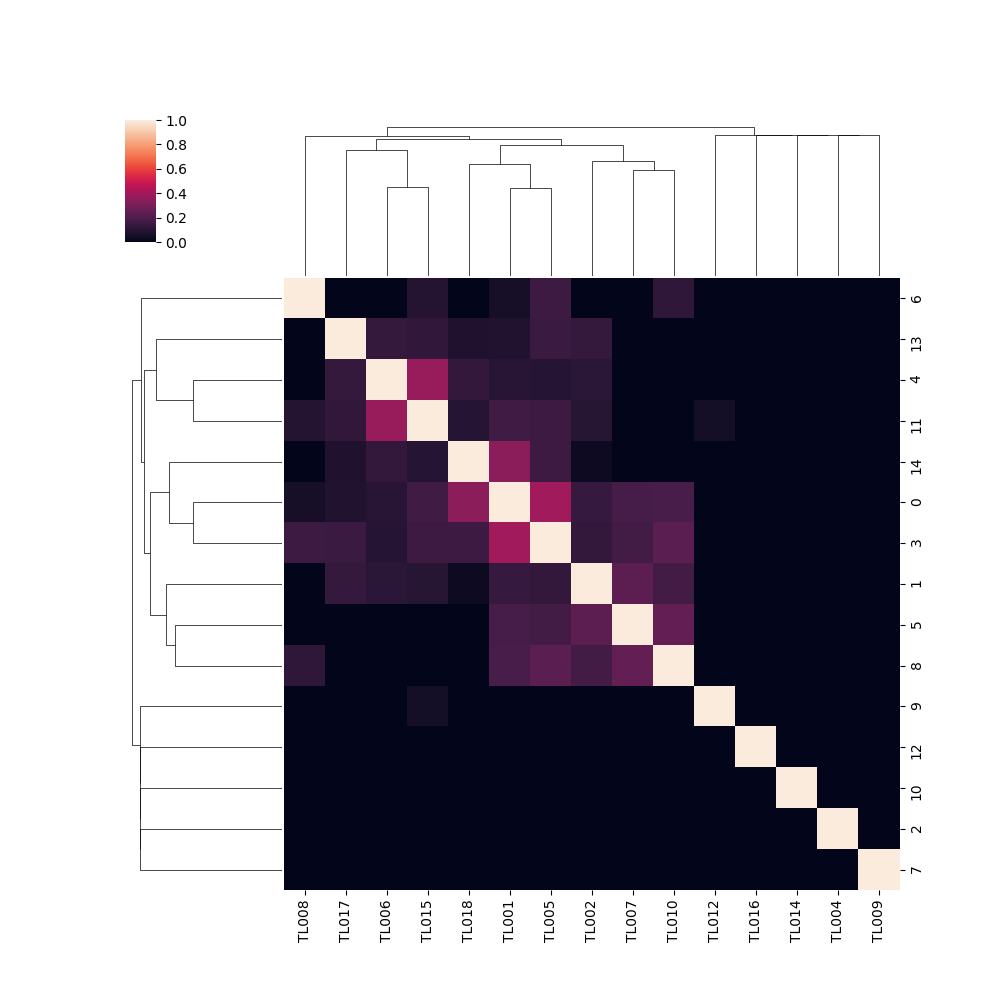
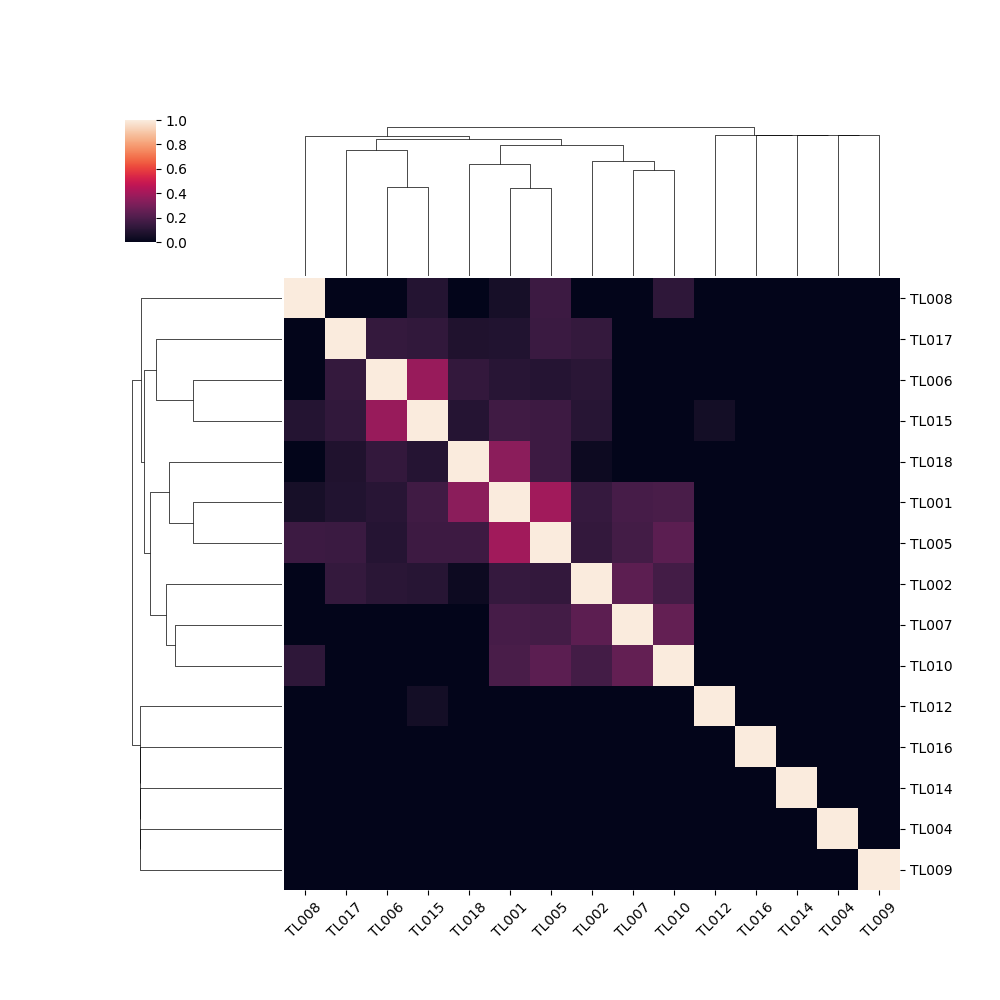
labels on both axes

diff --git a/fobject/mm/management/commands/dendrogram_actions.py b/fobject/mm/management/commands/dendrogram_actions.py
@@ -32,5 +32,8 @@ class Command(BaseCommand):
             a.append(row)
 
         df = pd.DataFrame(data=a, columns=sorted(actions.keys()))
-        sns.clustermap(df, standard_scale=1)
+        cg = sns.clustermap(df, standard_scale=1,
+                            yticklabels=sorted(actions.keys()))
+
+        plt.setp(cg.ax_heatmap.xaxis.get_majorticklabels(), rotation=45)
         plt.savefig('dendrogram_actions.png')

diff --git a/fobject/mm/management/commands/dendrogram.py b/fobject/mm/management/commands/dendrogram.py
@@ -29,5 +29,6 @@ class Command(BaseCommand):
             a.append(row)
 
         df = pd.DataFrame(data=a, columns=sorted(alters.keys()))
-        sns.clustermap(df, standard_scale=1)
+        sns.clustermap(df, standard_scale=1,
+                       yticklabels=sorted(alters.keys()))
         plt.savefig('dendrogram.png')
